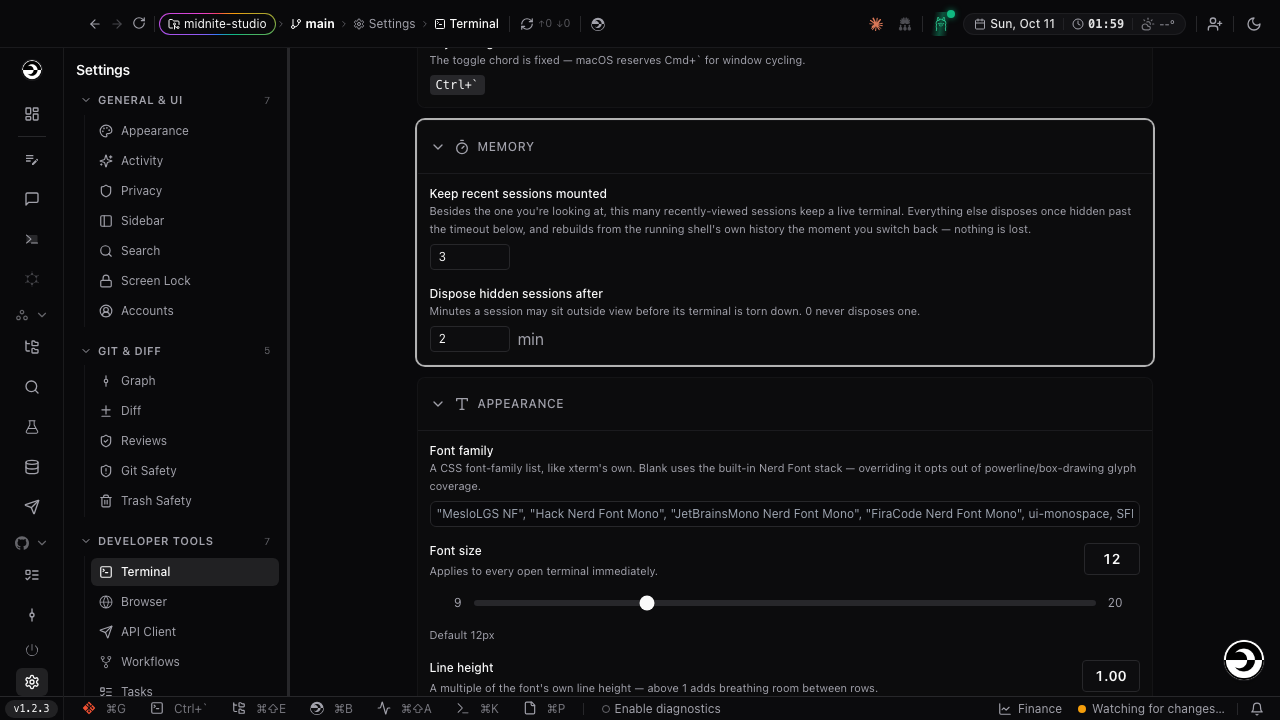
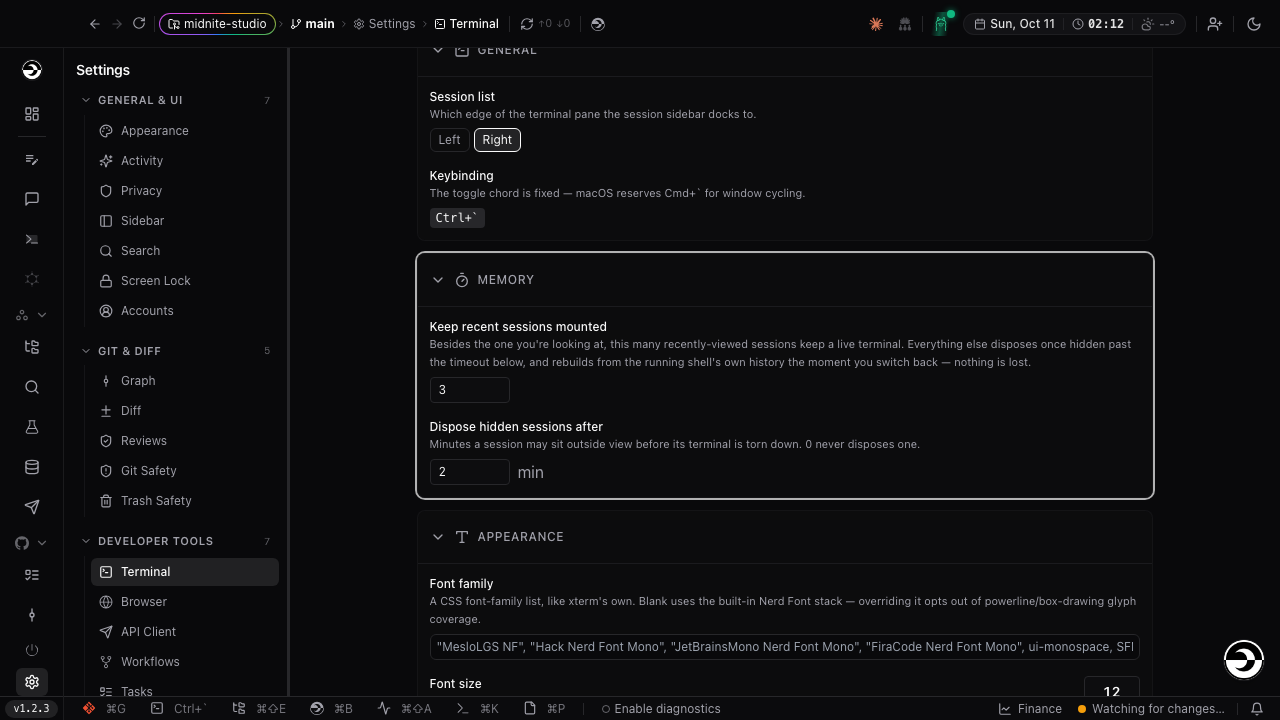
fix(app): class-based section highlight for the motion guard; update stub-era navigate test

diff --git a/packages/app/src/styles.css b/packages/app/src/styles.css
@@ -6173,8 +6173,8 @@ html[data-motion='reduced'] .rainbow-panel::after {
 }
 
 /*
- * Phase 112 Theme F — a settings section a reveal has just scrolled to. The reveal sets the
- * attribute and removes it ~1.8s later; the ring fades on its own, and under reduced motion it is a
+ * Phase 112 Theme F — a settings section a reveal has just scrolled to. The reveal adds the class
+ * and removes it ~1.8s later; the ring fades on its own, and under reduced motion it is a
  * plain static ring for that same window rather than an animation.
  */
 @keyframes settings-section-flash {
@@ -6186,18 +6186,18 @@ html[data-motion='reduced'] .rainbow-panel::after {
   }
 }
 
-[data-settings-highlight] {
+.settings-section-highlight {
   border-radius: 0.5rem;
   box-shadow: 0 0 0 2px hsl(var(--primary) / 0.7);
   animation: settings-section-flash 1.8s ease-out forwards;
 }
 
-html[data-motion='reduced'] [data-settings-highlight] {
+html[data-motion='reduced'] .settings-section-highlight {
   animation: none;
 }
 
 @media (prefers-reduced-motion: reduce) {
-  html:not([data-motion='full']) [data-settings-highlight] {
+  html:not([data-motion='full']) .settings-section-highlight {
     animation: none;
   }
 }

diff --git a/packages/app/e2e/reveal-settings-section-shots.spec.ts b/packages/app/e2e/reveal-settings-section-shots.spec.ts
@@ -22,13 +22,13 @@ async function reveal(page: Page, theme: 'light' | 'dark'): Promise<void> {
   await expect(page.getByRole('columnheader', { name: 'Commit message' })).toBeVisible();
   await setReducedMotion(page);
   await setTheme(page, theme, { settleMs: 200 });
-  await page.evaluate(async () => {
-    const mod = await import(/* @vite-ignore */ '/src/features/companion/reveal/reveal.ts');
+  await page.evaluate(async (path) => {
+    const mod = await import(/* @vite-ignore */ path);
     return mod.revealResource({ kind: 'setting', page: 'terminal', section: 'memory' }, { caller: 'companion' });
-  });
+  }, '/src/features/companion/reveal/reveal.ts');
   // Off the rail: the expanded rail would cover the settings nav.
   await page.mouse.move(900, 500);
-  await expect(page.locator('[data-settings-section="memory"][data-settings-highlight]')).toBeVisible();
+  await expect(page.locator('[data-settings-section="memory"].settings-section-highlight')).toBeVisible();
 }
 
 for (const theme of ['light', 'dark'] as const) {

diff --git a/packages/app/src/features/companion/navigate.test.ts b/packages/app/src/features/companion/navigate.test.ts
@@ -267,7 +267,7 @@ describe('navigate { target } (Phase 112 Theme B)', () => {
   it('goes through the reveal engine and speaks its sentence', async () => {
     const outcome = await navigateCompanion(navigate({ target: { kind: 'note', id: 'n1' } }));
     expect(useUiStore.getState().activeView).toBe('notes');
-    expect(outcome.say).toBe("I can't pick out that note yet.");
+    expect(outcome.say).toBe("I couldn't find that note.");
   });
 
   it('answers a relayed reveal with its real outcome and reason', async () => {
@@ -275,7 +275,7 @@ describe('navigate { target } (Phase 112 Theme B)', () => {
     await vi.waitFor(() => expect(mocks.relay).toHaveBeenCalled());
     expect(mocks.relay.mock.calls[0]?.[0]).toMatchObject({
       kind: 'companion',
-      payload: { replyTo: 'reply-1', result: { ok: false, reason: 'unavailable' } },
+      payload: { replyTo: 'reply-1', result: { ok: false, reason: 'not-found' } },
     });
   });
 });

diff --git a/packages/app/src/features/companion/reveal/revealers/tools.test.ts b/packages/app/src/features/companion/reveal/revealers/tools.test.ts
@@ -63,7 +63,7 @@ describe('setting', () => {
     const out = await TOOLS_REVEALERS.setting.reveal({ kind: 'setting', page: 'terminal', section: 'memory' }, ctx);
     expect(out).toMatchObject({ ok: true });
     expect(useUiStore.getState().settingsPage).toBe('terminal');
-    expect(document.querySelector('[data-settings-section="memory"]')?.hasAttribute('data-settings-highlight')).toBe(true);
+    expect(document.querySelector('[data-settings-section="memory"]')?.classList.contains('settings-section-highlight')).toBe(true);
   });
 
   it('still lands on the page, and says so, when the section cannot be found', async () => {

diff --git a/packages/app/src/features/companion/reveal/revealers/tools.ts b/packages/app/src/features/companion/reveal/revealers/tools.ts
@@ -59,8 +59,8 @@ async function showSection(page: SettingsPageId, section: string): Promise<boole
   const header = anchor.querySelector<HTMLButtonElement>('button[aria-expanded="false"]');
   header?.click();
   anchor.scrollIntoView?.({ block: 'start', behavior: 'smooth' });
-  anchor.setAttribute('data-settings-highlight', '');
-  setTimeout(() => anchor.removeAttribute('data-settings-highlight'), HIGHLIGHT_MS);
+  anchor.classList.add('settings-section-highlight');
+  setTimeout(() => anchor.classList.remove('settings-section-highlight'), HIGHLIGHT_MS);
   return true;
 }
 
